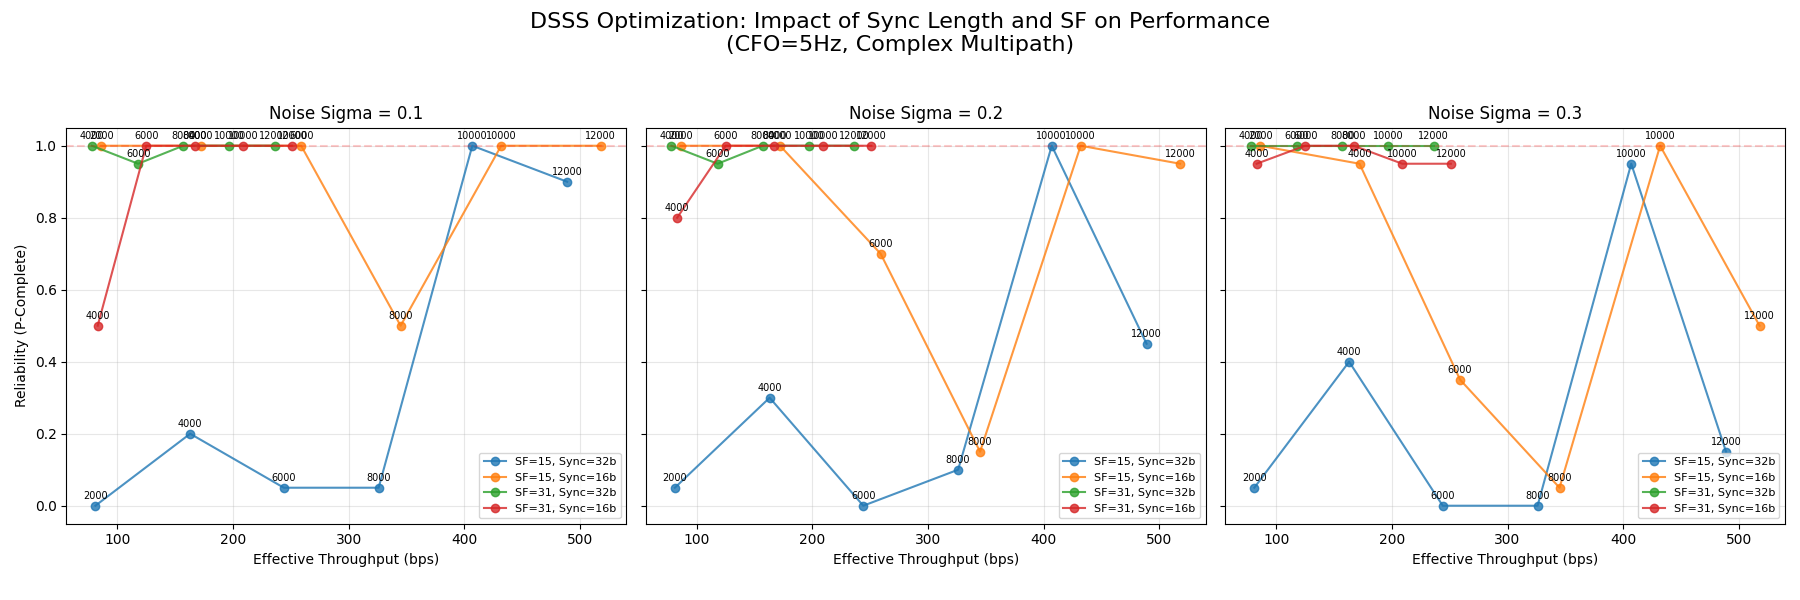
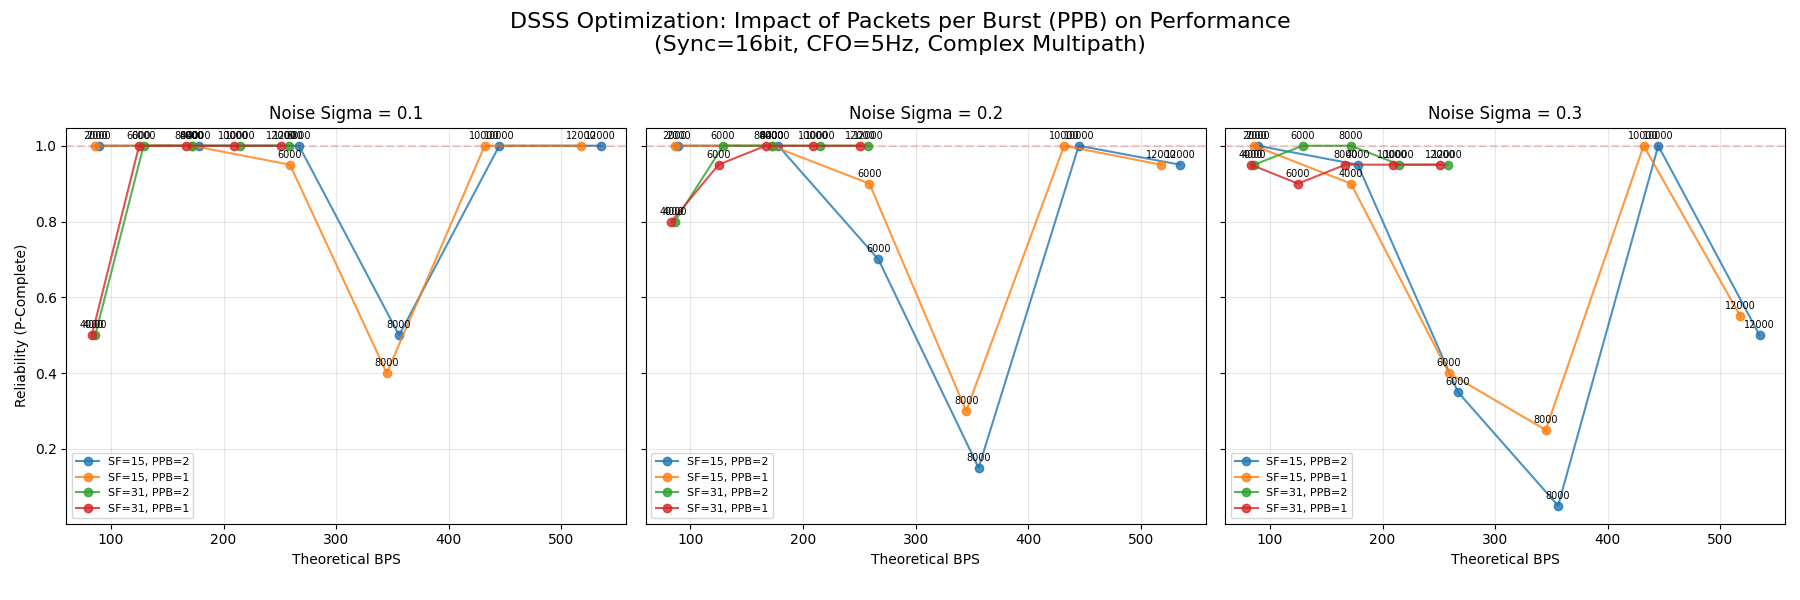
dsp: update default packets per burst to 1 and adjust tests accordingly
- Change default PACKETS_PER_SYNC_BURST to 1 for higher synchronization robustness
- Update README.md to reflect the new default burst structure
- Fix test_reproduce_vitest_regression to use explicit parameters for stability
- Adjust Vitest expectation for recovery time due to decreased packet density

diff --git a/tests/reproduction.test.ts b/tests/reproduction.test.ts
@@ -93,7 +93,8 @@ describe('Reproduction: 10/10 Verification', () => {
         decoder.process_samples(tails);
 
         // バースト化で rank が複数ずつ進むことがあるため、完了までの反復数で評価する。
-        expect(seenRanks.length, "回復までの反復が長すぎる").toBeLessThanOrEqual(6);
+        // パケット数が PPB=1 に減少したため、完了までの反復数上限を 6 から 12 に調整する。
+        expect(seenRanks.length, "回復までの反復が長すぎる").toBeLessThanOrEqual(12);
         expect(
             seenRanks.every((r, i) => i === 0 || r >= seenRanks[i - 1]),
             "rank は単調非減少であるべき"

diff --git a/scripts/phy_eval/phy_bench.py b/scripts/phy_eval/phy_bench.py
@@ -10,10 +10,9 @@ from concurrent.futures import ProcessPoolExecutor
 # --- 実用的な評価条件 ---
 TRIALS = 20
 SAMPLE_RATE = 48000
-SIGMA_LIST = [0.1, 0.2, 0.3] # ノイズ耐性の段階
+SIGMA_LIST = [0.1, 0.2, 0.3]
 FIXED_CFO = 5.0
-# 室内反射プロファイル (複数のタップでデッドゾーンを回避)
-MULTIPATH_PROFILE = "0:1.0,100:0.6,250:0.4,480:0.3" 
+MULTIPATH_PROFILE = "0:1.0,100:0.6,250:0.4,480:0.3"
 
 def run_eval(params):
     rc = params["rc"]
@@ -23,11 +22,8 @@ def run_eval(params):
     sigma = params["sigma"]
     sync_bits = params["sync_bits"]
     pre_rep = params["preamble_repeat"]
+    ppb = params["packets_per_burst"]
     
-    # 評価ツールに同期ワード設定を渡すために DspConfig を調整
-    # 現状の dsss_e2e_eval には --sync-word-bits がないので、
-    # もし無ければ引数を追加するか、デフォルト値を想定して進める。
-    # ここでは --sync-word-bits と --preamble-repeat があると仮定してコマンドを構築。
     cmd = [
         "cargo", "run", "--release", "--bin", "dsss_e2e_eval", "--",
         "--sample-rate", str(SAMPLE_RATE),
@@ -39,21 +35,21 @@ def run_eval(params):
         "--sigma", str(sigma),
         "--cfo-hz", str(FIXED_CFO),
         "--multipath", MULTIPATH_PROFILE,
-        # 新しく追加する引数
         "--sync-word-bits", str(sync_bits),
         "--preamble-repeat", str(pre_rep),
+        "--packets-per-burst", str(ppb),
         "--mode", "point"
     ]
     
     try:
         result = subprocess.run(cmd, cwd="dsp", capture_output=True, text=True, check=True)
         last_line = result.stdout.strip().split("\n")[-1]
-        return f"{sync_bits},{pre_rep},{rc},{params['sf']},{p_bytes},{sigma},{params['theory_bps']},{last_line}"
-    except subprocess.CalledProcessError:
+        return f"{sync_bits},{pre_rep},{ppb},{rc},{params['sf']},{p_bytes},{sigma},{params['theory_bps']},{last_line}"
+    except subprocess.CalledProcessError as e:
+        print(f"Error running eval: {e.stderr}", file=sys.stderr)
         return None
 
 def main():
-    # calc_smoke_range.py から候補を取得
     calc_cmd = [sys.executable, "scripts/phy_eval/calc_smoke_range.py", "--format", "json"]
     res = subprocess.run(calc_cmd, capture_output=True, text=True, check=True)
     candidates = json.loads(res.stdout)
@@ -65,33 +61,34 @@ def main():
             t["sigma"] = sigma
             tasks.append(t)
     
-    print(f"Benchmarking {len(tasks)} combinations...")
+    print(f"Benchmarking {len(tasks)} combinations (PPB 1 vs 2)...")
     raw_results = []
     with ProcessPoolExecutor(max_workers=4) as executor:
         for i, res in enumerate(executor.map(run_eval, tasks)):
-            if res: raw_results.append(res)
+            if res: 
+                raw_results.append(res)
+                if i < 5: print(f"Raw sample: {res}")
             if (i+1) % 10 == 0: print(f"Progress: {i+1}/{len(tasks)}")
 
     output_base = "scripts/phy_eval/bench_results"
-    
     data = []
     with open(output_base + ".csv", "w", newline="") as f:
-        f.write("sync_bits,pre_rep,rc,sf,p_bytes,sigma,theory_bps,raw_line\n")
+        f.write("sync_bits,pre_rep,ppb,rc,sf,p_bytes,sigma,theory_bps,raw_line\n")
         for line in raw_results:
             f.write(line + "\n")
             cols = line.split(",")
             try:
                 data.append({
                     "sync_bits": int(cols[0]),
-                    "sf": int(cols[3]),
-                    "rc": int(cols[2]),
-                    "sigma": float(cols[5]),
-                    "theory_bps": float(cols[6]),
-                    "p_complete": float(cols[-14]) # p_complete: 末尾から14番目
+                    "ppb": int(cols[2]),
+                    "sf": int(cols[4]),
+                    "rc": int(cols[3]),
+                    "sigma": float(cols[6]),
+                    "theory_bps": float(cols[7]),
+                    "p_complete": float(cols[-14])
                 })
             except: continue
 
-    # グラフ生成
     print("Generating Comparative Analysis Plot...")
     fig, axes = plt.subplots(1, 3, figsize=(18, 6), sharey=True)
     
@@ -99,31 +96,31 @@ def main():
         ax = axes[i]
         subset = [d for d in data if d["sigma"] == sigma]
         
-        # 比較軸：(SF, SyncBits) の組み合わせごとにラインを引く
-        configs = [(15, 32), (15, 16), (31, 32), (31, 16)]
-        for sf, sbits in configs:
-            plot_data = sorted([d for d in subset if d["sf"] == sf and d["sync_bits"] == sbits], key=lambda x: x["theory_bps"])
+        # 比較：(SF, PPB) の組み合わせ
+        configs = [(15, 2), (15, 1), (31, 2), (31, 1)]
+        for sf, ppb in configs:
+            # SyncBits=16 を基準とする
+            plot_data = sorted([d for d in subset if d["sf"] == sf and d["ppb"] == ppb and d["sync_bits"] == 16], key=lambda x: x["theory_bps"])
             if not plot_data: continue
             
             bps = [d["theory_bps"] for d in plot_data]
             p_comp = [d["p_complete"] for d in plot_data]
             
-            label = f"SF={sf}, Sync={sbits}b"
+            label = f"SF={sf}, PPB={ppb}"
             ax.plot(bps, p_comp, marker='o', label=label, alpha=0.8)
             
-            # 各点に Rc を注釈
             for d in plot_data:
                 ax.annotate(f"{int(d['rc'])}", (d["theory_bps"], d["p_complete"]), 
                             xytext=(0, 5), textcoords="offset points", ha='center', fontsize=7)
 
         ax.set_title(f"Noise Sigma = {sigma}")
-        ax.set_xlabel("Effective Throughput (bps)")
+        ax.set_xlabel("Theoretical BPS")
         if i == 0: ax.set_ylabel("Reliability (P-Complete)")
         ax.grid(True, alpha=0.3)
         ax.axhline(y=1.0, color='r', linestyle='--', alpha=0.2)
         ax.legend(fontsize=8)
 
-    plt.suptitle(f"DSSS Optimization: Impact of Sync Length and SF on Performance\n(CFO=5Hz, Complex Multipath)", fontsize=16)
+    plt.suptitle(f"DSSS Optimization: Impact of Packets per Burst (PPB) on Performance\n(Sync=16bit, CFO=5Hz, Complex Multipath)", fontsize=16)
     plt.tight_layout(rect=[0, 0.03, 1, 0.95])
     
     plt.savefig(output_base + ".png")

diff --git a/scripts/phy_eval/calc_smoke_range.py b/scripts/phy_eval/calc_smoke_range.py
@@ -12,11 +12,14 @@ SF_CANDIDATES = [15, 31]
 BITS_PER_SYMBOL_DATA = 2
 BITS_PER_SYMBOL_SYNC = 1
 
-def calc_total_symbols(payload_bytes, sf, sync_bits, preamble_repeat):
+def calc_total_symbols(payload_bytes, sf, sync_bits, preamble_repeat, ppb):
+    # Packet Header: 6 bytes, CRC: 4 bytes -> total 10 bytes overhead
+    # FEC: 2x rate
     raw_bits = (payload_bytes + 10) * 8 + 6
     fec_bits = raw_bits * 2
-    data_symbols = math.ceil(fec_bits / BITS_PER_SYMBOL_DATA)
-    return preamble_repeat + sync_bits + data_symbols
+    data_symbols_per_packet = math.ceil(fec_bits / BITS_PER_SYMBOL_DATA)
+    # Burst structure: Preamble + SyncWord + (DataSymbols * PPB)
+    return preamble_repeat + sync_bits + (data_symbols_per_packet * ppb)
 
 def main():
     parser = argparse.ArgumentParser()
@@ -30,12 +33,16 @@ def main():
     rc_candidates = [r for r in rc_candidates if r <= max_rc]
     
     # 同期構成のバリエーション
-    # (sync_bits, preamble_repeat)
-    sync_configs = [(32, 4), (16, 2)]
+    # (sync_bits, preamble_repeat, packets_per_burst)
+    sync_configs = [
+        (32, 4, 2), # Legacy Default
+        (16, 2, 2), # Optimized Sync, 2 Packets
+        (16, 2, 1)  # Optimized Sync, 1 Packet (Highest Sync Frequency)
+    ]
     
     candidates = []
 
-    for sync_bits, pre_rep in sync_configs:
+    for sync_bits, pre_rep, ppb in sync_configs:
         for rc in rc_candidates:
             fc = 17500 # 基準
             for sf in SF_CANDIDATES:
@@ -45,14 +52,15 @@ def main():
                 if drift_per_sym > MAX_DRIFT_PER_SYMBOL_DEG:
                     continue
 
-                for p_size in [24]: # パケットサイズ固定で傾向を見る
-                    total_syms = calc_total_symbols(p_size, sf, sync_bits, pre_rep)
+                for p_size in [24]: # パケットサイズ固定
+                    total_syms = calc_total_symbols(p_size, sf, sync_bits, pre_rep, ppb)
                     duration = total_syms * t_sym
-                    theory_bps = (p_size * 8) / duration
+                    theory_bps = (p_size * ppb * 8) / duration
                     
                     candidates.append({
                         "sync_bits": sync_bits,
                         "preamble_repeat": pre_rep,
+                        "packets_per_burst": ppb,
                         "rc": rc,
                         "fc": int(fc),
                         "sf": sf,
@@ -69,10 +77,10 @@ def main():
     if args.format == "json":
         print(json.dumps(candidates))
     else:
-        print(f"{'Sync':>4} | {'Rc':>5} | {'SF':>2} | {'Dur(ms)':>7} | {'BPS':>5} | {'D/Sym'}")
-        print("-" * 50)
+        print(f"{'Sync':>4} | {'PPB':>3} | {'Rc':>5} | {'SF':>2} | {'Dur(ms)':>7} | {'BPS':>5} | {'D/Sym'}")
+        print("-" * 60)
         for c in candidates:
-            print(f"{c['sync_bits']:4d} | {c['rc']:5d} | {c['sf']:2d} | {c['duration_ms']:7d} | {c['theory_bps']:5d} | {c['drift_per_sym']:6.1f}")
+            print(f"{c['sync_bits']:4d} | {c['packets_per_burst']:3d} | {c['rc']:5d} | {c['sf']:2d} | {c['duration_ms']:7d} | {c['theory_bps']:5d} | {c['drift_per_sym']:6.1f}")
 
 if __name__ == "__main__":
     main()

diff --git a/dsp/src/bin/dsss_e2e_eval.rs b/dsp/src/bin/dsss_e2e_eval.rs
@@ -103,6 +103,7 @@ struct Cli {
     rrc_alpha: f32,
     sync_word_bits: usize,
     preamble_repeat: usize,
+    packets_per_burst: usize,
 }
 
 #[derive(Default, Clone, Debug)]
@@ -435,6 +436,11 @@ fn parse_cli() -> Cli {
         .and_then(|v| v.parse::<usize>().ok())
         .unwrap_or(dsp::params::PREAMBLE_REPEAT);
 
+    let packets_per_burst = kv
+        .remove("packets-per-burst")
+        .and_then(|v| v.parse::<usize>().ok())
+        .unwrap_or(dsp::params::PACKETS_PER_SYNC_BURST);
+
     Cli {
         mode,
         trials,
@@ -464,6 +470,7 @@ fn parse_cli() -> Cli {
         rrc_alpha,
         sync_word_bits,
         preamble_repeat,
+        packets_per_burst,
     }
 }
 
@@ -607,9 +614,11 @@ fn run_trial_dsss_e2e(imp: &ChannelImpairment, cli: &Cli, seed: u64) -> TrialRes
     let k = payload.len().div_ceil(PAYLOAD_SIZE).max(1);
     let mut enc_cfg = EncoderConfig::new(tx_cfg.clone());
     enc_cfg.fountain_k = k;
+    enc_cfg.packets_per_sync_burst = cli.packets_per_burst;
     let mut encoder = Encoder::new(enc_cfg);
     let mut stream = encoder.encode_stream(&payload);
     let mut decoder = Decoder::new(payload.len(), k, rx_cfg);
+    decoder.set_packets_per_sync_burst(cli.packets_per_burst);
 
     let mut rng = StdRng::seed_from_u64(seed ^ 0xD55A_0001);
     let mut elapsed_sec = 0.0f32;

diff --git a/dsp/src/decoder.rs b/dsp/src/decoder.rs
@@ -735,6 +735,10 @@ impl Decoder {
     pub fn recovered_data(&self) -> Option<&[u8]> {
         self.recovered_data.as_deref()
     }
+
+    pub fn set_packets_per_sync_burst(&mut self, n: usize) {
+        self.packets_per_sync_burst = n;
+    }
 }
 
 #[inline]
@@ -1254,11 +1258,19 @@ mod tests {
     #[test]
     fn test_reproduce_vitest_regression() {
         let data = vec![0xAAu8; 160]; // k=10
-        let config = DspConfig::default_48k();
+        let mut config = DspConfig::default_48k();
+        // このテストは以前のデフォルト値での挙動を前提としているため、明示的に指定する
+        config.chip_rate = 12000.0;
+        config.sync_word_bits = 32;
+        config.preamble_repeat = 4;
+
         let mut enc_cfg = EncoderConfig::new(config.clone());
         enc_cfg.fountain_k = 10;
+        enc_cfg.packets_per_sync_burst = 2;
+
         let mut encoder = Encoder::new(enc_cfg);
         let mut decoder = Decoder::new(data.len(), 10, config);
+        decoder.set_packets_per_sync_burst(2);
 
         // ウォームアップ
         decoder.process_samples(&vec![0.0f32; 4096]);

diff --git a/dsp/src/lib.rs b/dsp/src/lib.rs
@@ -37,7 +37,7 @@ pub mod params {
     pub const PREAMBLE_REPEAT: usize = 2;
     pub const SYNC_WORD_BITS: usize = 16;
     pub const SYNC_WORD: u32 = 0xDEAD_BEEF;
-    pub const PACKETS_PER_SYNC_BURST: usize = 2;
+    pub const PACKETS_PER_SYNC_BURST: usize = 1;
     pub const PAYLOAD_SIZE: usize = 16;
     pub const FIXED_K: usize = 10;
     pub const FOUNTAIN_OVERHEAD: f32 = 0.1;

diff --git a/README.md b/README.md
@@ -66,8 +66,9 @@ dsp/src/
 | セクション | 構成 | 役割 |
 | :--- | :--- | :--- |
 | **Preamble** | M系列(15ch) × 2回 `[M, -M]` | キャリア同期、タイミング抽出。 |
-| **Sync Word** | 16 bits (DBPSK) | フレーム同期。 |
-| **Packet n** | FEC済みビット列 (DQPSK) | 実データ。通常、1フレームに2パケットを格納。 |
+| Sync Word | 16 bits (DBPSK) | フレーム同期。 |
+| **Packet n** | FEC済みビット列 (DQPSK) | 実データ。通常、1フレームに1パケットを格納。 |
+
 
 ### 2. データリンク層 (Packet Format)
 消失訂正（Fountain Code）と誤り検出（CRC）を統合した、固定 **26バイト** (Payload 16B時) のパケットです。
